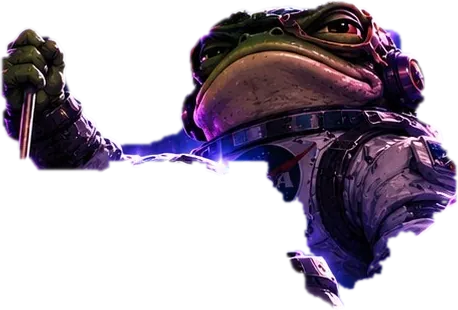
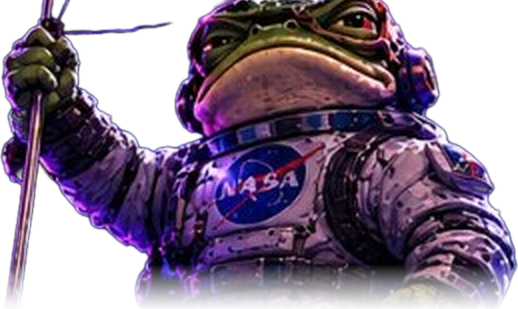
feat: replace frog images with new cutouts, uniform frog size, neon blurred backdrop

diff --git a/index.html b/index.html
@@ -607,7 +607,7 @@ addEventListener("keydown", e => { if (e.key === "Escape" && onb.q >= 0 && !$("t
 (function () {
   if (!window.THREE) return;
   const T = THREE, box = $("crew"); let renderer;
-  const FR = [{box:[369, 445, 942, 930],z:0.9,src:"kwakwaziabry/arina.png"},{box:[13, 602, 410, 932],z:0.6,src:"kwakwaziabry/diana.png"},{box:[821, 436, 1210, 797],z:0.45,src:"kwakwaziabry/oleksus.png"},{box:[30, 404, 451, 708],z:0.3,src:"kwakwaziabry/polina.png"},{box:[93, 243, 551, 553],z:0.1,src:"kwakwaziabry/sonya.png"},{box:[561, 227, 1013, 554],z:-0.1,src:"kwakwaziabry/andrii.png"}];
+  const FR = [{box:[472, 519, 840, 930],z:0.9,src:"kwakwaziabry/arina.png"},{box:[0, 483, 560, 932],z:0.6,src:"kwakwaziabry/diana.png"},{box:[706, 387, 1254, 797],z:0.45,src:"kwakwaziabry/oleksus.png"},{box:[26, 353, 454, 708],z:0.3,src:"kwakwaziabry/polina.png"},{box:[102, 290, 542, 553],z:0.1,src:"kwakwaziabry/sonya.png"},{box:[556, 211, 1018, 554],z:-0.1,src:"kwakwaziabry/andrii.png"}];
 
   function fallback() {
     box.hidden = false;
@@ -717,7 +717,7 @@ addEventListener("keydown", e => { if (e.key === "Escape" && onb.q >= 0 && !$("t
     const map = new T.Texture(im); map.needsUpdate = true; map.encoding = T.sRGBEncoding;
     const dm = new T.CanvasTexture(hc); dm.minFilter = dm.magFilter = T.LinearFilter;
     const mesh = new T.Mesh(new T.PlaneGeometry(w, h, 80, Math.max(24, Math.round(80 * h / w))),
-      new T.MeshLambertMaterial({map, displacementMap: dm, displacementScale: .34, alphaTest: .35}));
+      new T.MeshLambertMaterial({map, displacementMap: dm, displacementScale: .34, transparent: true, alphaTest: .03}));
     mesh.position.y = h / 2;
     const pivot = new T.Group(); pivot.add(mesh);
     pivot.position.set(((fd.box[0] + fd.box[2]) / 2 - CX) * PX, -(fd.box[3] - CY) * PX, fd.z); group.add(pivot);
@@ -790,7 +790,7 @@ addEventListener("keydown", e => { if (e.key === "Escape" && onb.q >= 0 && !$("t
       const sx = base * (1 + it.hover * .04 - sq * .5), sy = base * (1 + it.hover * .04 + sq + Math.sin(s * 2 + it.phase) * .008 * p);
       it.pivot.scale.set(sx, sy, base);
       it.pivot.rotation.y = look.x * .22 * (1 - it.z * .4) * p; it.pivot.rotation.x = -look.y * .08 * p;
-      const m = it.mesh.material; m.opacity = it.v; m.transparent = it.v < .999; it.pivot.visible = it.v > .01;
+      const m = it.mesh.material; m.opacity = it.v; it.pivot.visible = it.v > .01;
     });
     // pink glow under the frog(s): follows the focused one
     if (top && b.w > 0) {
